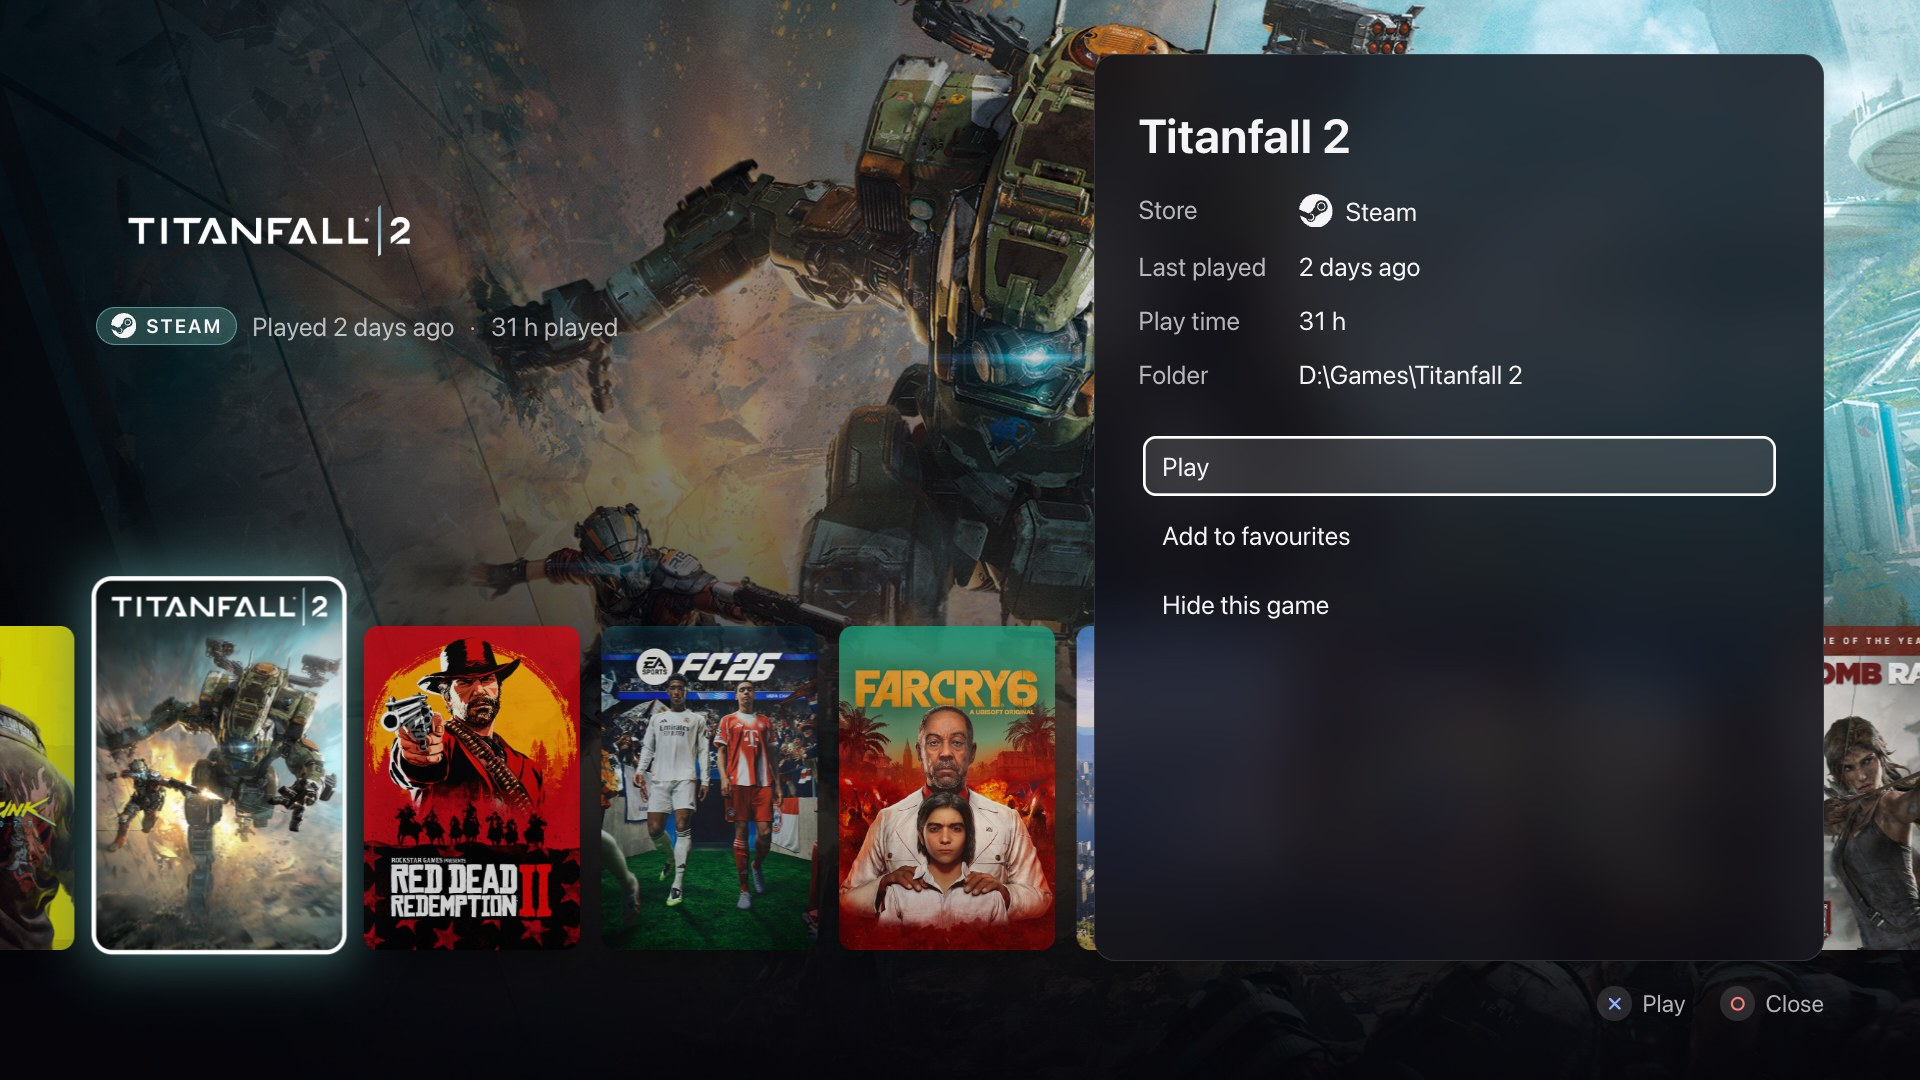
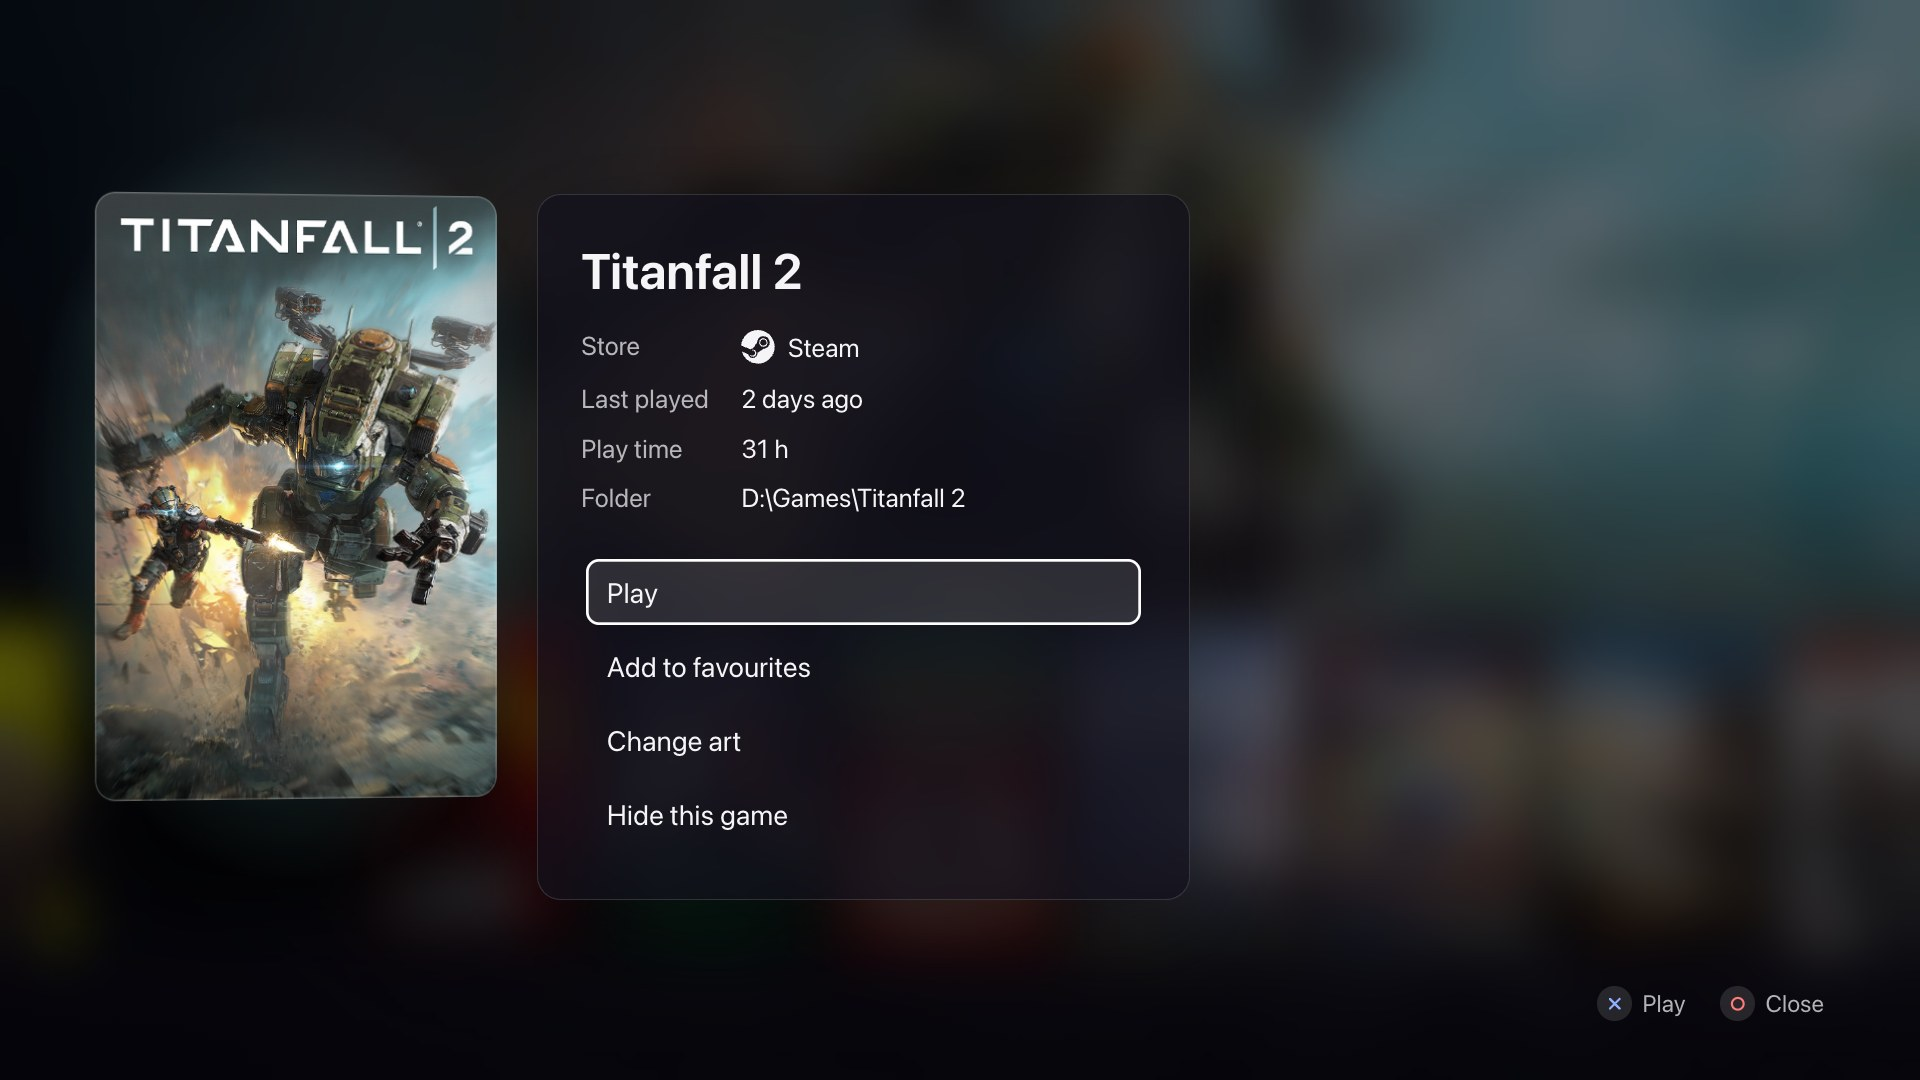
Docs for the game menu, Change art and Add a game
README's details screenshot now shows the lifted menu.

diff --git a/README.md b/README.md
@@ -31,7 +31,7 @@ while you play. When the game closes, Lamplit is back on screen.
   </tr>
   <tr>
     <td width="50%"><img src="docs/images/find.jpg" alt="Find a game: an on-screen keyboard with rdr typed, store and sort choices, and the row narrowed to Red Dead Redemption 2"><br><sub>Find a game: "rdr" finds Red Dead Redemption 2.</sub></td>
-    <td width="50%"><img src="docs/images/details.jpg" alt="A game's details: store, last played, play time and folder, with Play, Add to favourites and Hide this game below"><br><sub>Details: play time, favourites, and hiding what isn't a game.</sub></td>
+    <td width="50%"><img src="docs/images/details.jpg" alt="A game's menu: its cover lifted over the blurred home screen, and beside it the store, last played, play time and folder, with Play, Add to favourites, Change art and Hide this game"><br><sub>A game's menu: its cover lifted, its details and choices beside it.</sub></td>
   </tr>
 </table>
 
@@ -43,7 +43,10 @@ while you play. When the game closes, Lamplit is back on screen.
   Connect, the Rockstar Games Launcher and the Xbox app have installed, and finds games outside any store too. There
   is nothing to import, connect or sign in to.
 - **Favourites first, then last played,** then by name, so the game you're in the middle of is near the front.
-- **Favourites and hidden games.** In a game's details (Options), add it to your favourites to keep it at the front,
+- **A game's menu.** Options lifts the focused game's cover toward you and blurs the rest of the screen. Beside the
+  cover are the game's store, when it was last played, its play time and folder, and its choices: Play, favourites,
+  Change art and Hide this game.
+- **Favourites and hidden games.** In a game's menu (Options), add it to your favourites to keep it at the front,
   or hide something Lamplit found that isn't a game. **Settings > Hidden games** shows a hidden game again.
 - **Play time** for each game, on the home screen and in its details. For a Steam game it is Steam's own count, which
   includes play outside Lamplit. For other games it is the time Lamplit has seen the game running, from version
@@ -55,6 +58,14 @@ while you play. When the game closes, Lamplit is back on screen.
 - **Cover, background and logo art.** Lamplit takes it from Steam's own library cache when it can, and otherwise
   from Steam's public store, which it also searches by name for games from other stores. A game with no match shows
   its name instead. You can switch online art off.
+- **Change art** when Steam's match is the wrong game. In a game's menu, Change art shows what Steam's store finds for
+  the game's name as covers to pick from, and the lifted cover shows the one you are on. You can edit the search on
+  the on-screen keyboard, or choose no art, which shows the game's name. **Back to automatic** undoes the choice. Lamplit
+  keeps it through restarts and new scans.
+- **Add a game by hand.** **Settings > Add a game** lists the installed programs Lamplit didn't take for games, and
+  lets you browse the PC's drives and folders for a game's exe, all with a controller. Name the game on the on-screen
+  keyboard, then choose its art. Lamplit starts it from its exe, as it does games outside any store, and its menu has
+  **Remove from Lamplit**. When Lamplit finds no games at all, Cross on the empty home screen adds one.
 - **New installs show up by themselves.** Lamplit looks again every time it comes back to the front.
 - **Steam's install and update state** on the game: "Installing" or "Update pending".
 
@@ -124,7 +135,7 @@ while you play. When the game closes, Lamplit is back on screen.
 | Rockstar Games Launcher | The launcher's list of titles | Starts the launcher, checks for a saved sign-in |
 | GOG (GOG Galaxy or GOG's offline installers) | GOG's list of installed games | Nothing: GOG games start from their own exe |
 | Xbox app, including PC Game Pass | The Xbox games installed for your Windows account | Nothing: Xbox games start without the app |
-| No store | Folders in `<drive>:\Games`, installed programs that look like games, and games Windows' Game Bar has seen | Starts the game's exe |
+| No store | Folders in `<drive>:\Games`, installed programs that look like games, games Windows' Game Bar has seen, and games you add by hand | Starts the game's exe |
 
 Only Steam says live who is signed in. For the other store apps Lamplit checks whether they keep a saved sign-in,
 and if it can't confirm one, it lets you go ahead anyway.
@@ -246,7 +257,7 @@ logon task.
 | Move along the row | D-pad or left stick, left and right | D-pad or left stick, left and right | Left and Right arrows |
 | Jump five games | L1, R1 | LB, RB | Page Up, Page Down |
 | Play the game, or return to it while it runs | Cross | A | Enter |
-| Game details | Options | Menu | I |
+| Game menu | Options | Menu | I |
 | Settings | Triangle | Y | C |
 | Find a game | Square | X | F |
 | Back, close, or cancel a launch | Circle | B | Esc or Backspace |
@@ -259,13 +270,22 @@ Other controllers follow the same layout by position: the bottom face button pla
 one opens Settings and the left one opens Find.
 
 While a game starts, Cross (A) opens the store app that needs you, Triangle (Y) goes ahead without a confirmed
-sign-in, and Circle (B) cancels. In a game's details, Up and Down pick Play, Add to favourites or Hide this game, and
-Cross does it. In Settings, Up and Down move, Cross or Right opens a section, Left and Right change the volume,
-sidetone and auto-off timer, Circle goes back, and Triangle closes Settings. In Find, Cross types the key or picks
-the choice you're on, Square (X) deletes, Triangle (Y) adds a space, and Circle closes Find on the games it found. On
-a keyboard, type the name and press Enter.
+sign-in, and Circle (B) cancels. In Settings, Up and Down move, Cross or Right opens a section, Left and Right change
+the volume, sidetone and auto-off timer, Circle goes back, and Triangle closes Settings. In Find, Cross types the key
+or picks the choice you're on, Square (X) deletes, Triangle (Y) adds a space, and Circle closes Find on the games it
+found. On a keyboard, type the name and press Enter.
 
-With a mouse, click a cover to select it and click it again to play. Settings rows take a click too.
+In a game's menu, Up and Down move and Cross picks; Circle or Options closes it. **Remove from Lamplit** asks first:
+press Cross once more to remove the game. In Change art, the d-pad moves between the covers and the choices below
+them, Cross picks one, Square (X) edits the search, and Circle goes back to the menu.
+
+In Add a game, Up and Down move through the list, and L1 and R1 (LB and RB) jump eight rows. Cross or Right opens a
+drive or folder; Circle or Left goes up a level. Cross on an exe or a program goes on to its name. The keyboard for a
+name or a search works as Find's does, with two more keys: **Shift** switches the next letter between a capital and a
+small letter (each word starts with a capital), and **Done** takes what you typed. Circle goes back without it.
+
+With a mouse, click a cover to select it and click it again to play. Settings rows, the choices in a game's menu,
+Change art's covers and Add a game's rows and keys take a click too. A click beside a game's menu closes it.
 
 ## What Lamplit changes on your PC
 
@@ -278,7 +298,7 @@ With a mouse, click a cover to select it and click it again to play. Settings ro
 | Steam's **Guide Button Focuses Steam** turned off | Whenever Steam's DevTools port is open | Steam > Settings > Controller |
 | Windows' default sound output and microphone | When the headset or controller headphones come and go (on by default) | Switch **Sound follows** off in Settings > Sound |
 | Mouse input from the DualSense touchpad | While **Touchpad as mouse** is on (off by default) | Switch it off in Settings > Controllers |
-| Prefs, favourites, hidden games, play time, logs and art in `%LOCALAPPDATA%\lamplit` | Always | Tick **Delete the application data** when you uninstall |
+| Prefs, favourites, hidden games, play time, the art you chose, the games you added, logs and art in `%LOCALAPPDATA%\lamplit` | Always | Tick **Delete the application data** when you uninstall |
 
 Lamplit goes online only to fetch game art from Steam's store, and you can switch that off. No accounts, no
 telemetry. [What Lamplit changes on your PC, and what it sends](docs/security-and-privacy.md) has every detail,
@@ -290,7 +310,7 @@ including the risk of Steam's DevTools port.
 | --- | --- | --- | --- |
 | Price and source | Free, source on GitHub (noncommercial licence) | Free, closed source | Free, MIT licence |
 | Runs on | Windows | Windows, macOS, Linux, SteamOS | Windows |
-| Games it lists | Installed games from seven stores and outside any store, found by itself | Steam games; others as shortcuts you add by hand | Games from the libraries you connect through its add-ons, and emulated games |
+| Games it lists | Installed games from seven stores and outside any store, found by itself, and games you add by hand | Steam games; others as shortcuts you add by hand | Games from the libraries you connect through its add-ons, and emulated games |
 | Before a game starts | Starts the store apps it needs, waits for sign-in, shows Steam's update progress | Steam updates its own games first | Starts the game through its store or its exe |
 | Controllers | DualSense, Xbox and other controllers Windows knows; keyboard and mouse | Most controllers, through Steam Input | Many controllers, through SDL |
 | Themes, add-ons, emulators | No | No themes or add-ons; emulators as shortcuts you add | Yes, with an add-on browser |
@@ -343,7 +363,8 @@ Uninstall it, or open Task Scheduler as administrator and disable or delete the 
 
 ### A game is missing, or shows up twice.
 
-Please open an issue with the store, the game's install folder, and the `discovery` lines from `lamplit.log`.
+You can add a missing game by hand: **Settings > Add a game**. To help Lamplit find it by itself, please open an issue
+with the store, the game's install folder, and the `discovery` lines from `lamplit.log`.
 
 ### Where are the logs?
 
@@ -353,7 +374,7 @@ In `%LOCALAPPDATA%\lamplit`: `lamplit.log` for the app, `supervisor.log` for the
 ### Does it send anything online?
 
 Only requests for game art to Steam's store, and only while **Find art online** is on: the names of games that
-aren't from Steam, Steam app ids, and your country. Details are in
+aren't from Steam, what you search for in Change art, Steam app ids, and your country. Details are in
 [the privacy section](docs/security-and-privacy.md#network-art-only).
 
 ## Build from source

diff --git a/docs/architecture.md b/docs/architecture.md
@@ -19,7 +19,8 @@ src-tauri/
     data.rs          the data folder and the JSON files in it
     files.rs         path helpers: drive-letter checks, safe joins, atomic writes
     logging.rs       lamplit.log, supervisor.log and setup.log
-    library/         the game list: discovery, sorting, art, favourites, hidden games and play time
+    library/         the game list: discovery, sorting, art and the art the player chose, favourites, hidden
+                     games, play time, and games added by hand
     stores/          one file per store app; loose.rs finds games outside any store
     launch/          starting a game, watching it, and Lamplit's own window
     devices/         controllers (pad/), the headset, sound devices, where the sound goes
@@ -34,7 +35,11 @@ ui/
   api.js           every command and event, with JSDoc types; no other file names one
   state.js         the page's state and its elements
   input.js         controller, keyboard and mouse as one set of actions
-  library.js       the cover row and the focused game
+  library.js       the cover row, the focused game and its menu
+  lift.js          a game's menu lifting its cover over the blurred screen
+  art.js           Change art, in a game's menu
+  add.js           Add a game: the programs Lamplit passed over, browsing the drives, naming the game
+  keyboard.js      the on-screen keyboards: Find's, and the one for names and art searches
   find.js          the Find panel: the on-screen keyboard, the store filter and the sort
   launch.js        the starting screen
   settings.js      the Settings panel
@@ -65,10 +70,11 @@ Lamplit brings the first one's window forward and exits. Task Scheduler only res
 one that crashes later, which is why the supervisor exists.
 
 Lamplit keeps its files in the data folder, `%LOCALAPPDATA%\lamplit`: `prefs.json`, `games.json` (per game id:
-favourite, hidden, when it was last played and how long Lamplit saw it run; 0.1.0's `played.json` is still read for
-the last-played times), `art.json` and `art\<steam appid>\` (art lookups and downloads), `setup.json` (setup is
-done, for which exe) and `quiet-saved.json` (the settings quiet mode replaced), plus the logs. WebView2 keeps its
-profile in `%LOCALAPPDATA%\io.github.yordilorenzo.lamplit`.
+favourite, hidden, when it was last played, how long Lamplit saw it run, the art the player chose, and for a game
+added by hand its name and exe; 0.1.0's `played.json` is still read for the last-played times), `art.json` and
+`art\<steam appid>\` (art lookups and downloads), `setup.json` (setup is done, for which exe) and `quiet-saved.json`
+(the settings quiet mode replaced), plus the logs. WebView2 keeps its profile in
+`%LOCALAPPDATA%\io.github.yordilorenzo.lamplit`.
 
 ## Inside the app
 

diff --git a/CHANGELOG.md b/CHANGELOG.md
@@ -4,6 +4,26 @@ Every release of Lamplit, newest first. The format follows
 [Keep a Changelog](https://keepachangelog.com/en/1.1.0/), and version numbers follow
 [Semantic Versioning](https://semver.org/).
 
+## Unreleased
+
+### Added
+
+- A game's menu (Options, or Menu on an Xbox controller) lifts the game's cover out of the row toward you, blurs the
+  rest of the screen, and opens beside the cover with the game's details and choices.
+- Change art, in a game's menu, for when Lamplit matched the wrong game on Steam's store. It shows what Steam's store
+  finds for the game's name as covers to pick from, and the search can be edited on the on-screen keyboard. "No art,
+  show the name" shows the game's name instead, and "Back to automatic" undoes the choice. The choice is kept in
+  `games.json`, so it lasts through restarts and new scans.
+- Add a game by hand, from Settings > Add a game, or with Cross on the empty home screen when Lamplit found no games:
+  one of the installed programs Lamplit didn't take for games, or an exe found by browsing the PC's drives and
+  folders. Name it on the on-screen keyboard, which has Shift and the signs game names use, then choose its art.
+  Lamplit starts it from its exe, like a game outside any store, and its menu has Remove from Lamplit.
+
+### Changed
+
+- The button hint for a game's details says Game menu.
+- Exes in Windows' cache of installers (`Package Cache`) are no longer taken for games outside any store.
+
 ## 0.2.0 - 2026-10-26
 
 ### Added

diff --git a/docs/security-and-privacy.md b/docs/security-and-privacy.md
@@ -14,8 +14,8 @@ Steam already keeps on your PC (its library cache) is used without going online.
 
 | Host | What it receives |
 | --- | --- |
-| `store.steampowered.com` (store search) | The name of each game that isn't from Steam and has no art yet, and the country of your Windows region. A game outside any store is named after its folder. A name that matched nothing is asked about again after 7 days. |
-| `api.steampowered.com` (`IStoreBrowseService/GetItems`) | The Steam app ids whose art is missing, and the country of your Windows region. |
+| `store.steampowered.com` (store search) | The name of each game that isn't from Steam and has no art yet, and the country of your Windows region. A game outside any store is named after its folder. A name that matched nothing is asked about again after 7 days. In **Change art**, the game's name, or the words you type instead. |
+| `api.steampowered.com` (`IStoreBrowseService/GetItems`) | The Steam app ids whose art is missing, or that Change art found, and the country of your Windows region. |
 | `shared.steamstatic.com` | Requests for the art files themselves. |
 
 Every request carries the user agent `lamplit/<version>`. Nothing else leaves the PC: no accounts, no telemetry, no
